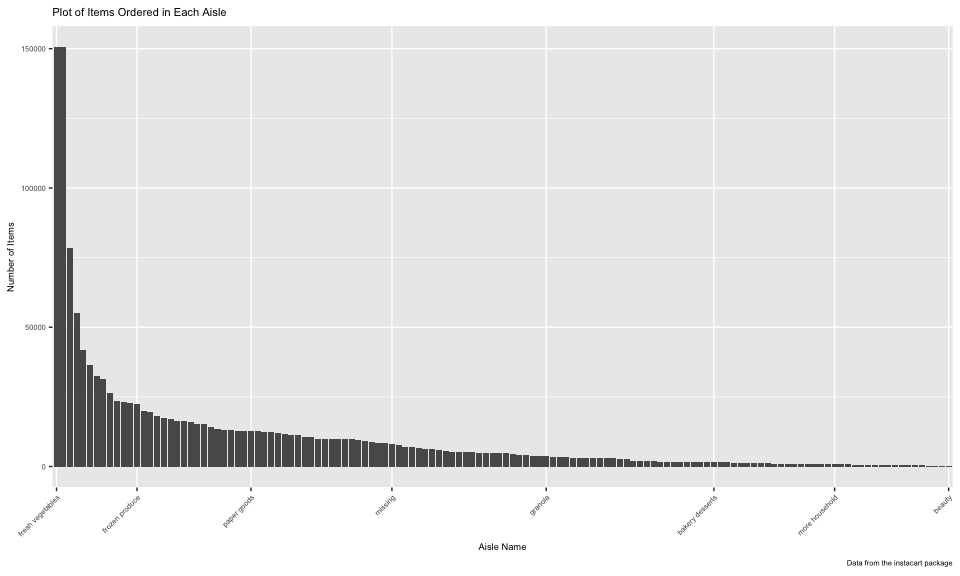
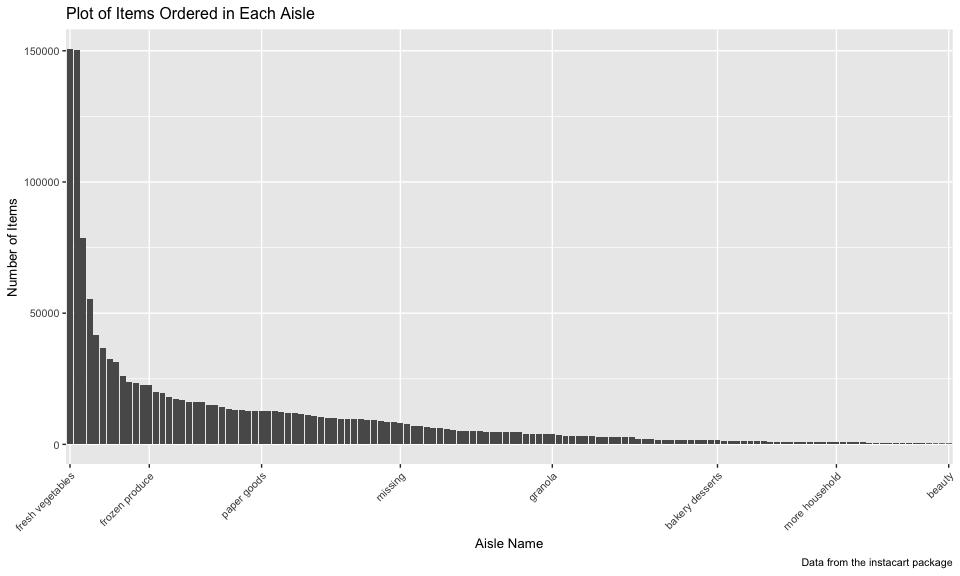
Changing legends for readable plots

diff --git a/p8105_hw3_kb2977.md b/p8105_hw3_kb2977.md
@@ -92,7 +92,12 @@ state_plot = brfss_data %>%
         caption = "Data from the brfss package"
     ) +
     scale_color_hue(name = "States") +
-    theme(legend.position = "bottom")
+    theme(legend.position = "bottom", 
+          legend.box = "horizontal", 
+          legend.title = element_text(size = 7),
+          legend.background = element_rect(fill = "blue", size = 0.001, linetype = "solid")
+          )
+
 state_plot
 ```
 
@@ -207,7 +212,7 @@ items_ordered =
   mutate(aisle = forcats::fct_reorder(aisle, desc(n))) %>% 
   ggplot(aes(x = aisle, y = n)) +
   geom_bar(stat = "identity") +
-  theme(axis.text.x = element_text(angle = 45, hjust = 1), text = element_text(size = 7)) +
+  theme(axis.text.x = element_text(angle = 45, hjust = 1), text = element_text(size = 10)) +
       scale_x_discrete(breaks = c("fresh vegetables", "frozen produce", "paper goods", "missing", "granola", "bakery desserts", "more household", "beauty")) +
   labs(
       title = "Plot of Items Ordered in Each Aisle",
